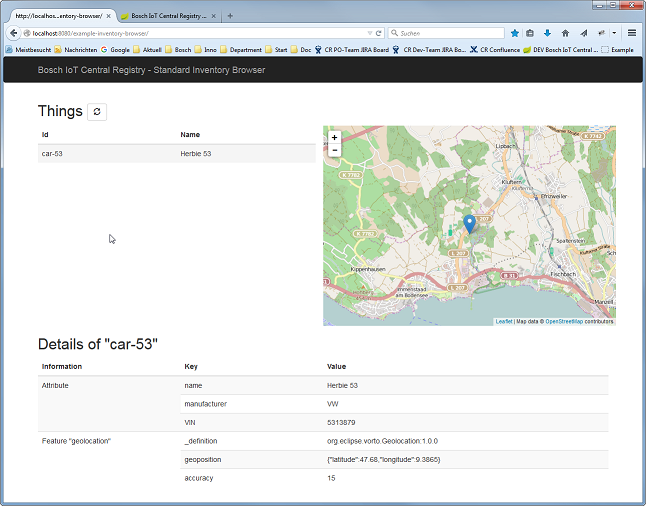
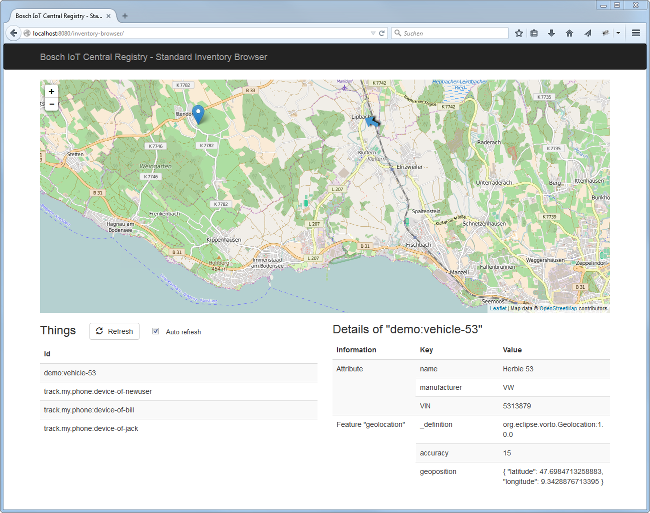
Update to CR-Integration Client 0.6 Cleanup of Readme, HTML

diff --git a/inventory-browser/src/main/webapp/index.html b/inventory-browser/src/main/webapp/index.html
@@ -3,7 +3,7 @@
 <head>
     <meta charset="UTF-8">
     <meta name="viewport" content="width=device-width, initial-scale=1">
-    <title>>Bosch IoT Central Registry - Standard Inventory Browser</title>
+    <title>Bosch IoT Central Registry - Standard Inventory Browser</title>
     <!--
     Copyright (c) 2015, Bosch Software Innovations GmbH, Germany
     All rights reserved.

diff --git a/vehicle-simulator/src/main/java/com/bosch/cr/examples/carintegrator/VehicleSimulator.java b/vehicle-simulator/src/main/java/com/bosch/cr/examples/carintegrator/VehicleSimulator.java
@@ -33,7 +33,9 @@ import com.bosch.cr.integration.authentication.AuthenticationConfiguration;
 import com.bosch.cr.integration.authentication.PublicKeyAuthenticationConfiguration;
 import com.bosch.cr.integration.configuration.ProxyConfiguration;
 import com.bosch.cr.integration.configuration.TrustStoreConfiguration;
+import com.bosch.cr.integration.model.Thing;
 import com.bosch.cr.integration.registration.ThingLifecycleEvent;
+import com.bosch.cr.integration.util.FieldSelector;
 import com.ning.http.client.AsyncHttpClient;
 import com.ning.http.client.AsyncHttpClientConfig;
 import com.ning.http.client.ProxyServer;
@@ -54,6 +56,7 @@ import java.util.*;
 import java.util.concurrent.ExecutionException;
 import java.util.concurrent.Future;
 import java.util.concurrent.TimeUnit;
+import java.util.concurrent.TimeoutException;
 
 /**
  * Example implementation of a "Gateway" that brings devices into your Solution.
@@ -82,6 +85,7 @@ public class VehicleSimulator {
         }
 
         centralRegistryEndpointUrl = props.getProperty("centralRegistryEndpointUrl");
+        String centralRegistryMessagingUrl = props.getProperty("centralRegistryMessagingUrl");
 
         String clientId = props.getProperty("clientId");
 
@@ -90,35 +94,28 @@ public class VehicleSimulator {
         String keyAlias = props.getProperty("keyAlias");
         String keyAliasPassword = props.getProperty("keyAliasPassword");
 
+        final String proxyHost = props.getProperty("http.proxyHost");
+        final String proxyPort = props.getProperty("http.proxyPort");
 
-        IntegrationClientConfiguration.ClientConfigurationBuilder clientConfigBuilder = IntegrationClientConfiguration.newBuilder();
-
-        PublicKeyAuthenticationConfiguration.PublicKeyAuthenticationConfigurationBuilder authenticationBuilder =
-                PublicKeyAuthenticationConfiguration.newBuilder();
-
-        AuthenticationConfiguration authenticationConfiguration = authenticationBuilder.clientId(clientId)
+        AuthenticationConfiguration authenticationConfiguration = PublicKeyAuthenticationConfiguration.newBuilder()
+                .clientId(clientId)
                 .keyStoreLocation(keystoreUri.toURL()).keyStorePassword(keystorePassword)
                 .alias(keyAlias).aliasPassword(keyAliasPassword).build();
 
-        IntegrationClientConfiguration.OptionalConfigSettable optionalConfig = clientConfigBuilder
-                .authenticationConfiguration(authenticationConfiguration)
-                .centralRegistryEndpointUrl(props.getProperty("centralRegistryMessagingUrl"));
+        TrustStoreConfiguration trustStore = TrustStoreConfiguration.newBuilder()
+                .location(VehicleSimulator.class.getResource("/bosch-iot-cloud.jks"))
+                .password("jks").build();
 
-        final String proxyHost = props.getProperty("http.proxyHost");
-        final String proxyPort = props.getProperty("http.proxyPort");
+        IntegrationClientConfiguration.OptionalConfigSettable configSettable = IntegrationClientConfiguration.newBuilder()
+                .authenticationConfiguration(authenticationConfiguration)
+                .centralRegistryEndpointUrl(centralRegistryMessagingUrl)
+                .trustStoreConfiguration(trustStore);
         if (proxyHost != null && proxyPort != null) {
-            ProxyConfiguration proxyConfiguration = ProxyConfiguration.newBuilder()
-                    .proxyHost(proxyHost)
-                    .proxyPort(Integer.valueOf(proxyPort)).build();
-            optionalConfig.proxyConfiguration(proxyConfiguration);
+            configSettable = configSettable.proxyConfiguration(ProxyConfiguration.newBuilder()
+                    .proxyHost(proxyHost).proxyPort(Integer.parseInt(proxyPort)).build());
         }
 
-        TrustStoreConfiguration trustStoreConfiguration = TrustStoreConfiguration.newBuilder()
-                .location(VehicleSimulator.class.getResource("/bosch-iot-cloud.jks")).password("jks").build();
-
-        IntegrationClientConfiguration clientConfig =  optionalConfig.trustStoreConfiguration(trustStoreConfiguration).build();
-
-        final IntegrationClient client = IntegrationClientImpl.newInstance(clientConfig);
+        IntegrationClient client = IntegrationClientImpl.newInstance(configSettable.build());
 
 
         // ### WORKAROUND: prepare HttpClient to make REST calls the CR-Integration-Client does not support yet
@@ -153,37 +150,33 @@ public class VehicleSimulator {
             while (true) {
                 for (String thingId : activeThings) {
 
-                    client.things().forId(thingId).retrieve()
-                            .fields("thingId", "features/geolocation/properties/geoposition")
-                            .onFailure(e -> System.out.println("Retrieve thing " + thingId + " failed: " + e))
-                            .onSuccess(thing -> {
+                    try {
+                        Thing thing = client.things().forId(thingId).retrieve(FieldSelector.of("thingId", "features/geolocation/properties/geoposition")).get(5, TimeUnit.SECONDS);
 
-                                if (thing.getFeatures() == null || thing.getFeatures().getFeature("geolocation") == null) {
-                                    System.out.println("Thing " + thingId + " has no Feature \"geolocation\"");
-                                    return;
-                                }
+                        if (thing.getFeatures() == null || thing.getFeatures().getFeature("geolocation") == null) {
+                            System.out.println("Thing " + thingId + " has no Feature \"geolocation\"");
+                            return;
+                        }
 
-                                JsonObject geoposition = thing.getFeatures().getFeature("geolocation").orElseThrow(RuntimeException::new)
-                                        .getProperties().getJsonObject("geoposition");
-                                JsonObject newGeoposition = Json.createObjectBuilder()
-                                        .add("latitude", geoposition.getJsonNumber("latitude").doubleValue() + (random.nextDouble() - 0.5) / 250)
-                                        .add("longitude", geoposition.getJsonNumber("longitude").doubleValue() + (random.nextDouble() - 0.5) / 250).build();
+                        JsonObject geoposition = thing.getFeatures().getFeature("geolocation").orElseThrow(RuntimeException::new)
+                                .getProperties().getJsonObject("geoposition");
+                        JsonObject newGeoposition = Json.createObjectBuilder()
+                                .add("latitude", geoposition.getJsonNumber("latitude").doubleValue() + (random.nextDouble() - 0.5) / 250)
+                                .add("longitude", geoposition.getJsonNumber("longitude").doubleValue() + (random.nextDouble() - 0.5) / 250).build();
 
-                                changeProperty(thingId, "geolocation", "geoposition", newGeoposition);
+                        changeProperty(thingId, "geolocation", "geoposition", newGeoposition);
 
-                                System.out.print(".");
-                                if (random.nextDouble() < 0.01) {
-                                    System.out.println();
-                                }
-
-                            }).apply(5, TimeUnit.SECONDS);
-                }
-
-                try {
-                    Thread.sleep(500);
-                } catch (InterruptedException ex) {
-                    System.out.println("Update thread interrupted");
-                    return;
+                        System.out.print(".");
+                        if (random.nextDouble() < 0.01) {
+                            System.out.println();
+                        }
+                        Thread.sleep(250);
+                    } catch (InterruptedException e) {
+                        System.out.println("Update thread interrupted");
+                        return;
+                    } catch (ExecutionException | TimeoutException e) {
+                        System.out.println("Retrieve thing " + thingId + " failed: " + e);
+                    }
                 }
             }
         });
@@ -208,7 +201,7 @@ public class VehicleSimulator {
             r.close();
             return Arrays.asList(p.getProperty("thingIds").split(","));
         } catch (FileNotFoundException ex) {
-            return Collections.EMPTY_LIST;
+            return Collections.emptyList();
         } catch (IOException ex) {
             throw new RuntimeException(ex);
         }
@@ -227,7 +220,7 @@ public class VehicleSimulator {
     }
 
     // ### WORKAROUND: change property using REST until CR-Integration-Client supports it
-    private static void changeProperty(String thingId, String feature, String property, JsonObject value) {
+    private static void changeProperty(String thingId, String feature, String property, JsonObject value) throws InterruptedException {
         final String thingJsonString = value.toString();
         final String path = "/cr/1/things/" + thingId + "/features/" + feature + "/properties/" + property;
 
@@ -241,7 +234,7 @@ public class VehicleSimulator {
             if (re.getStatusCode() < 200 || re.getStatusCode() >= 300) {
                 throw new RuntimeException("Updated failed; " + re.getStatusCode() + ": " + re.getResponseBody());
             }
-        } catch (IOException | InterruptedException | ExecutionException ex) {
+        } catch (IOException | ExecutionException ex) {
             throw new RuntimeException(ex);
         }
     }

diff --git a/vehicle-simulator/README.md b/vehicle-simulator/README.md
@@ -2,7 +2,7 @@
 
 This example shows how to integrate devices information using Java with the CR.
 
-**Notice:** Currently this demo uses a workaround for the representation of Features of Things.
+**Notice:** Currently this demo uses the REST API for the updating the properties of Features of Things.
 As soon as the CR supports updating feature properties using the CR-Integration Client for Java this can be changed.
 
 # Build
@@ -12,7 +12,7 @@ Use the following maven command to build the server:
 mvn clean install
 ```
 
-# Configure your API Key and other settings
+# Configure your Client Id and other settings
 
 Create or adjust file "config.properties"
 
@@ -35,3 +35,4 @@ mvn exec:java -Dexec.mainClass="com.bosch.cr.examples.carintegrator.VehicleSimul
 
 # Usage
 
+Look in the Inventory Browser and see your vehicle(s) move.

diff --git a/inventory-browser/readme.md b/inventory-browser/readme.md
@@ -2,12 +2,9 @@
 
 This example shows how to create a simple user interface to list things and their details and show the things on a map.
 
-**Notice:** Currently this demo uses a workaround for the representation of Features of Things.
-As soon as the CR supports updating feature properties using the CR-Integration Client for Java this can be changed.
-
 ![Screenshot](screenshot.png)
 
-# Configure your API Key and other settings
+# Configure your API Token and other settings
 
 Create or adjust file "src/main/resources/config.properties"
 
